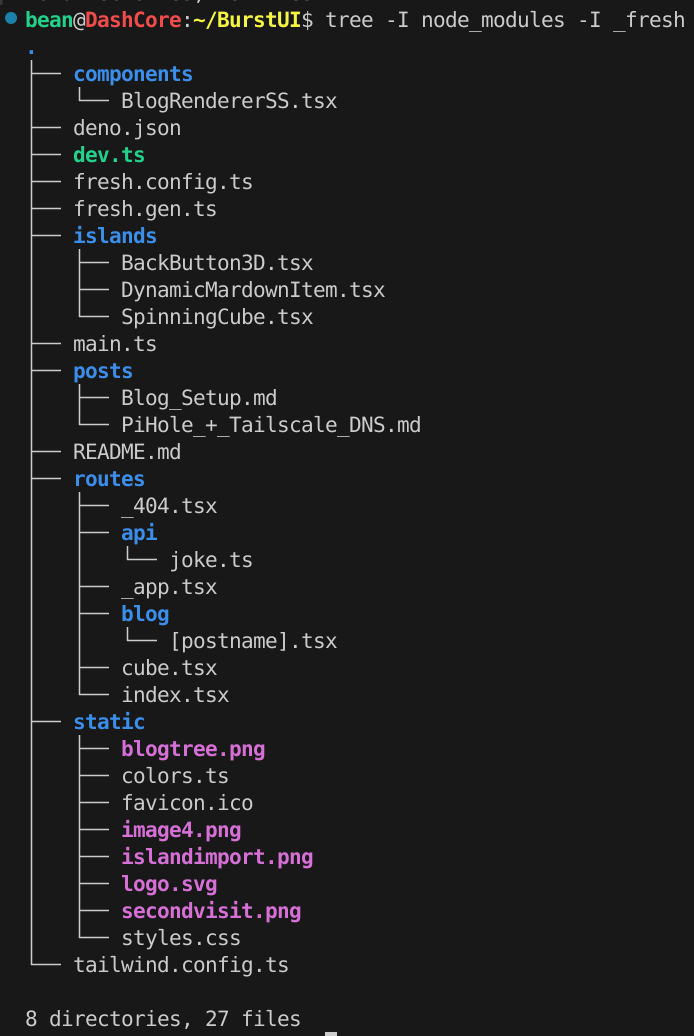
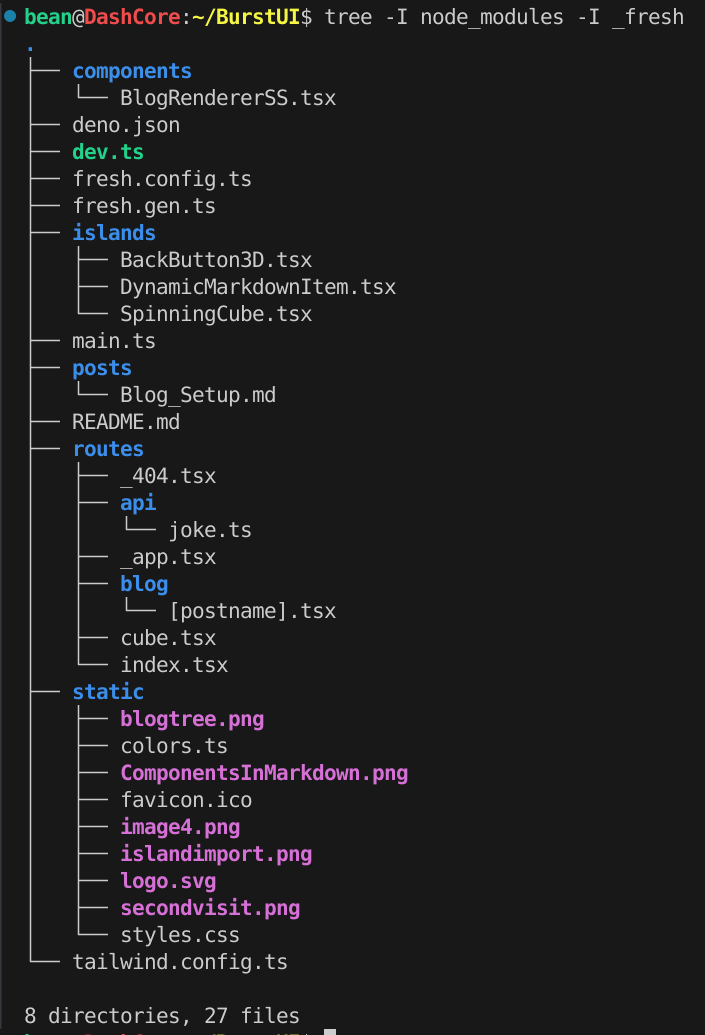
Alt Text Buff

Changed region(s): [[0.0303, 0.0618, 0.6052, 1.0], [0.0, 0.0, 0.9986, 0.0309], [0.4539, 0.9894, 0.4841, 1.0]]

diff --git a/tailwind.config.ts b/tailwind.config.ts
@@ -1,16 +1,16 @@
 import { type Config } from "tailwindcss";
-import { burstColors, burstTextColors } from "./static/colors.ts"
+import { burstColors, burstTextColors } from "./static/colors.ts";
 import typography from "@tailwindcss/typography";
 
 export default {
   content: [
     "{routes,islands,components}/**/*.{ts,tsx,js,jsx}",
   ],
-  mode: 'jit',
+  mode: "jit",
   theme: {
     extend: {
       colors: burstColors,
-      textColor: burstTextColors
+      textColor: burstTextColors,
     },
     typography: {
       DEFAULT: {
@@ -30,11 +30,11 @@ export default {
             fontSize: "1.5rem",
             fontWeight: "600",
           },
-          
+
           p: {
             color: burstTextColors.black,
             lineHeight: "1.6",
-            fontSize: "1rem"
+            fontSize: "1rem",
           },
           a: {
             color: burstColors.accYellow,
@@ -65,10 +65,40 @@ export default {
             color: burstTextColors.white,
             overflowX: "auto",
           },
+          "figure.custom-image": {
+            display: "flex",
+            flexDirection: "column",
+            alignItems: "center",
+            margin: "1.5rem auto", // Margin around the figure
+            img: {
+              borderRadius: "0.5rem",
+              maxWidth: "100%",
+              height: "auto",
+            },
+            code: {
+              color: burstTextColors.transWhite,
+              backgroundColor: burstColors.trans2Gray,
+              padding: "0.1em 0.4em",
+              borderRadius: "0.25rem",
+              fontFamily: "monospace",
+              fontSize: "0.90em",
+            },
+            figcaption: {
+              marginTop: "-1rem", // Small space between image and caption
+              color: burstTextColors.subtitles,
+              padding: "0.2rem 0", // Slight padding for clarity
+              fontSize: "0.875rem",
+              textAlign: "center",
+              fontStyle: "italic",
+              fontWeight: "400"
+            },
+            "& + *": {
+              marginTop: "1.5rem", // Normal gap after the figure to the next content
+            },
+          },
         },
       },
     },
   },
   plugins: [typography],
-  
 } satisfies Config;

diff --git a/components/BlogRendererSS.tsx b/components/BlogRendererSS.tsx
@@ -1,11 +1,23 @@
-import { marked } from "marked";
+import { marked, Tokens } from "marked";
+
+const renderer = new marked.Renderer();
+
+renderer.image = ({href, _title, text}: Tokens.Image): string => {
+  return `
+    <figure class="custom-image">
+      <img src="${href ?? ""}" alt="${text ?? ""}" />
+      ${text ? `<figcaption>${text}</figcaption>` : ""}
+    </figure>
+  `;
+};
+
 
 export default  function BlogPostRenderer({ content }: { content: string }) {
-  // Parse Markdown to HTML asynchronously
   const renderedContent = marked(
     content.replace(/{{(\w+)}}/g, (_match, componentName) => {
       return `<div id="component-${componentName}" data-component="${componentName}"></div>`;
-    })
+    }),
+    { renderer }
   );
 
   return (

diff --git a/static/colors.ts b/static/colors.ts
@@ -5,9 +5,12 @@ export const burstColors = {
     bgAqua:     "#17947F",
     accRed:     "#E71D36",
     accGreen:   "#A1E887",
-    transGray:  "rgba(105,105,105, 0.6)"
+    transGray:  "rgba(105,105,105, 0.6)",
+    trans2Gray: "rgba(105,105,105, 0.3)"
 }
 export const burstTextColors = {
     white:      "#ffffff",
-    black:      "#000000"
+    black:      "#000000",
+    subtitles:  "rgba(1, 2, 88, 0.5)",
+    transWhite: "rgba(255, 255, 255, 0.95)"
 }

diff --git a/posts/Blog_Setup.md b/posts/Blog_Setup.md
@@ -1,11 +1,10 @@
-
 ## Exploring Fresh
 <div style="height: 0.5rem; display: block;"></div>
 
 ### Islands
 ---
 <div style="height: 0.5rem; display: block;"></div>
-&nbsp;&nbsp;&nbsp;&nbsp;&nbsp;&nbsp;&nbsp;&nbsp;Fresh is an amazing web framework that <a target="_blank" rel="noopener noreferrer" href="https://deno.com/blog/intro-to-islands">focuses on Islands</a>. Islands let you easily separate components that will render on the Server and components that will render on the Client. I will be trying my best while building this site to send you the components with heavy lifting:
+&nbsp;&nbsp;&nbsp;&nbsp;&nbsp;&nbsp;&nbsp;&nbsp;Fresh is an amazing web framework that <a target="_blank" rel="noopener noreferrer" href="https://deno.com/blog/intro-to-islands">focuses on Islands</a>. Islands make it easy to specify what should render on the Server versus the Client. I will be trying my best while building this site to send you the components with heavy lifting:
 
 {{SpinningCube}}
 
@@ -16,28 +15,27 @@ To keep page loads speedy, over here on the Server, I'll just focus on getting t
 <div style="height: 0.5rem; display: block;"></div>
 <p>&nbsp;&nbsp;&nbsp;&nbsp;&nbsp;&nbsp;&nbsp;&nbsp;Next, I want to set up a blog system where I can easily make new posts. To facilitate this, I built a Markdown renderer that takes in the <code>.md</code> files in <code>posts</code> and turns them into HTML. So far, I have just made a single file in <code>posts</code> called <code>Blog_Setup.md</code> that automatically turns into the page we are on now:</p>
 
-![Fresh Project Directory Tree](/blogtree.png)
+![Fresh Project: Directory Tree](/blogtree.png)
 
-Using <a target="_blank" rel="noopener noreferrer" href="https://fresh.deno.dev/docs/getting-started/dynamic-routes">Dynamic Routing</a>, Fresh dynamically generates endpoints for each <code>.md</code> in the folder. To get another post to show up on my home page, I just have to add another Markdown file in the <code>posts</code> folder and it’ll be displayed on my homepage, and its route will be supported. Going to <a target="_blank" rel="noopener noreferrer" href="/blog/fakepost">a post I haven’t made yet</a> would also dynamically fail.
+Using <a target="_blank" rel="noopener noreferrer" href="https://fresh.deno.dev/docs/getting-started/dynamic-routes">dynamic routing</a>, Fresh will serve <code>*Post_Title*.md</code> as HTML when you visit its corresponding <code>/blog/*Post_Title*</code>. I just have to add another Markdown file in the <code>posts</code> folder for another item to show up on the homepage and its route will automatically work. Going to <a target="_blank" rel="noopener noreferrer" href="/blog/fakepost">a post I haven’t made yet</a> would also dynamically fail.
 <div style="height: 0.5rem; display: block;"></div>
 
 ### Combination - Islands in Blog Posts 
 ---
 <div style="height: 0.5rem; display: block;"></div>
 
-![postname imports](/islandimport.png)
+![<code>/blog/[postname].tsx</code> Imports](/islandimport.png)
 
-&nbsp;&nbsp;&nbsp;&nbsp;&nbsp;&nbsp;&nbsp;&nbsp;Above, `BlogRendererSS` is a Markdown to HTML renderer that I have sourced as a component, which means, when it is used in another component, it will be rendered Server side. The `DynamicMarkdownItem` replaces <code>**\{\{SpinningCube}\}**</code> with the corresponding Island, and is itself an Island, which means, when it is used in another component, it will be rendered Client side. I send you rendered text and you render the cube. This completes our goal of having a simple-but-dynamic blogging system that effectively separates Server and Client work.
+&nbsp;&nbsp;&nbsp;&nbsp;&nbsp;&nbsp;&nbsp;&nbsp;Above, `BlogRendererSS` is a Markdown-to-HTML renderer that I have sourced as a component, which means, when it is used in another component, it will be rendered Server side. The `DynamicMarkdownItem` replaces <code>**\{\{SpinningCube}\}**</code> with the corresponding Island, and is itself an Island, which means, when it is used in another component, it will be rendered Client side. I send you rendered text and you render the cube. This completes our goal of having a simple-but-dynamic blogging system that effectively separates Server and Client work.
 
-![Markdown file with HTML Component](/ComponentsInMarkdown.png)
-
-Deno is a growing and promising land as projects like Fresh evolve. I used <a target="_blank" rel="noopener noreferrer" href="https://deno.com/deploy">Deno Deploy</a> to easily host this website, which is really just <a target="_blank" rel="noopener noreferrer" href="https://github.com/ali-layken/BurstUI/blob/main/posts/Blog_Setup.md">a GitHub repo</a>, so you can really see how these renderers work if you like. When I say "over here" or refer to the Server, I am talking about <a target="_blank" rel="noopener noreferrer" href="https://deno.com/blog/anatomy-isolate-cloud">a Deno computer somewhere in the cloud</a> that automatically pulls the above repo whenever there is a change, and runs it. Since I tried Deno last, about 2 years ago, it has greatly improved integration with npm. I had **0 package issues** setting up this site.
-<br/>
-<br/>
+![This Post's SpinningCube Island in Markdown](/ComponentsInMarkdown.png)
 <div style="height: 0.5rem; display: block;"></div>
 
 ### Slide Back to the Home Page 
 ---
 <div style="height: 0.5rem; display: block;"></div>
 
+Deno is a growing and promising land as projects like Fresh evolve. I used <a target="_blank" rel="noopener noreferrer" href="https://deno.com/deploy">Deno Deploy</a> to easily host this website, which is really just <a target="_blank" rel="noopener noreferrer" href="https://github.com/ali-layken/BurstUI/blob/main/posts/Blog_Setup.md">a GitHub repo</a>, so you can really see how these renderers work if you like. When I say "over here" or refer to the Server, I am talking about <a target="_blank" rel="noopener noreferrer" href="https://deno.com/blog/anatomy-isolate-cloud">a Deno computer somewhere in the cloud</a> that automatically pulls the above repo whenever there is a change, and runs it. Since I tried Deno last, about 2 years ago, it has greatly improved its integration with existing npm packages. I had **0 package issues** setting up this site.
+<br/>
+<br/>
 Using Islands really helps build a smooth experience by separating computing resources for specific tasks. Deciding what to handle locally and what to send can vary a ton depending on the goal. For example, for security, if I wanted to use an API key to access Google Maps to show a Google Map in a blog post, I could make sure that API connection happens on the Server and not on an Island on the Client. The homepage will load faster if you got the cube here or this page will load faster if you got the cube there since it is now your cube now! You are now in charge of the Cube Island I’ve sent. Check out how smooth the opacity transition on this back link below is because **you** are rendering it. I am not sending you any frames or model data or anything, just the code to render each object...
